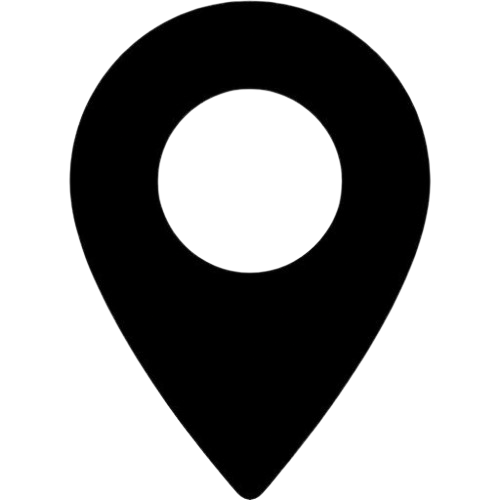
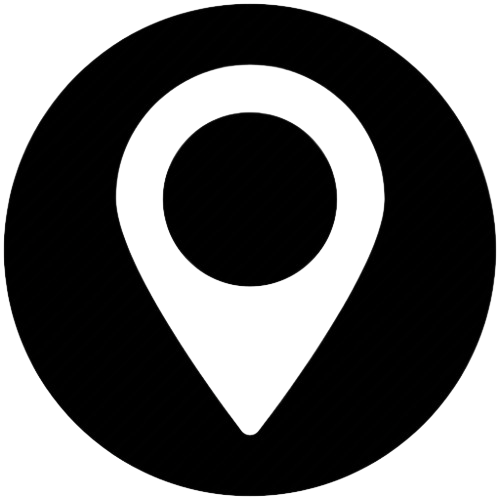
agregado el header y ahora se ve más linda la sección de contacto

diff --git a/src/app/page.tsx b/src/app/page.tsx
@@ -80,11 +80,18 @@ MoverImagenScroll();
     <div className="page-container">
       {/* Header */}
       <header className="header">
-        <h1>Header</h1>
+       <h1 className="text-2xl font-bold">
+          <a href="#">Fruterina</a>
+        </h1>
+        <nav className="space-x-4">
+          <a href="#start" className="hover:underline">Inicio</a>
+          <a href="#services" className="hover:underline">Servicios</a>
+          <a href="#contact" className="hover:underline">Contacto</a>
+        </nav>
       </header>
 
       {/* Contenido principal */}
-      <main className="main-content">
+      <main className="main-content" id="start">
         {/* Banner */}
         <section className="banner">
            <img
@@ -99,7 +106,7 @@ MoverImagenScroll();
         </section>
 
         {/* Sección de Tarjetas */}
-        <section className="services">
+        <section className="services" id="services">
           
           <h2 className="section-title">Nuestros Servicios</h2>
           <div className="services-container">
@@ -158,7 +165,7 @@ MoverImagenScroll();
         </section>
         {/* Imagen Final */}
      
-        <section className="contact">
+        <section className="contact" id="contact">
           <div className="contact-overlay"></div>
           
           {/* <Image
@@ -172,10 +179,10 @@ MoverImagenScroll();
           <div className="final-text">
             <h2>¡Comunicate con nosotros!</h2>
             <ul className="final-text-social-media-links">
-              <li><a href="#"><img src="./whatsappIcon.png" className="social-media-icon" alt="Whatsapp" /></a></li>
-              <li><a href="#"><img src="./instagramIcon.png" className="social-media-icon"  alt="Instagram" /></a></li>
-              <li><a href="#"><img src="./facebookIcon.png" className="social-media-icon"  alt="Facebook" /></a></li>
-              <li><a href="#"><img src="./locationIcon.png" className="social-media-icon"  alt="Direccion" /></a></li>
+              <li><a href="#contact"><img src="./whatsappIcon.png" className="social-media-icon" alt="Whatsapp" /></a></li>
+              <li><a href="#contact"><img src="./instagramIcon.png" className="social-media-icon"  alt="Instagram" /></a></li>
+              <li><a href="#contact"><img src="./facebookIcon.png" className="social-media-icon"  alt="Facebook" /></a></li>
+              <li><a href="#contact"><img src="./locationIcon.png" className="social-media-icon"  alt="Direccion" /></a></li>
             </ul>
           </div>
           
@@ -183,13 +190,13 @@ MoverImagenScroll();
       </main>
 
       {/* Footer */}
-      <footer className="footer">
+      <footer className="footer" id="footer">
         <section className="footer-links-container">
           <div className="footer-social-media-liks"></div>
           <ul className="footer-links-list">
-            <li><a className="footer-link" href="#">Términos y condicones</a></li>
-            <li><a className="footer-link" href="#">Política de privacidad</a></li>
-            <li><a className="footer-link" href="#">Política de Devoluciones</a></li>
+            <li><a className="footer-link hover:underline" href="#footer">Términos y condicones</a></li>
+            <li><a className="footer-link hover:underline" href="#footer">Política de privacidad</a></li>
+            <li><a className="footer-link hover:underline" href="#footer">Política de Devoluciones</a></li>
           </ul>
         </section>
         <p>&copy; 2025 - Luca Stombellini & Marcos Constantino</p>

diff --git a/src/app/globals.css b/src/app/globals.css
@@ -26,7 +26,7 @@ body {
   font-weight: 1000;
   font-style: italic;
   font-size: 1.3rem;
-
+  user-select: none;
 }
 
 .header {
@@ -34,6 +34,20 @@ body {
   color: white;
   padding: 16px;
   text-align: center;
+  display: flex;
+  flex-direction: row;
+  gap: 20px;
+  flex-wrap: wrap;
+}
+
+.header h1{
+  transition: all 0.5s;
+}
+
+.header h1:hover{
+    transform: scale(1.1);
+    color: #000000;
+    cursor: default;
 }
 
 .footer {
@@ -320,7 +334,12 @@ body {
 
 /* Imagen Final Seccion 4*/
 .contact {
-  /* background-color: rgb(135, 177, 229);*/
+   background-image: url('../../public/finalImage.jpeg');
+   background-size: cover;
+   background-attachment: fixed;
+   background-repeat: no-repeat;
+     /*background: linear-gradient(to bottom, #b04040, transparent);*/
+  height: 100%;
   position: relative;
   width: 100%;
   height: 200px;
@@ -330,6 +349,7 @@ body {
   align-content: center;
   justify-content: flex-start;
   align-items: center;
+
 }
 
 .social-media-icon{
@@ -342,6 +362,7 @@ body {
 }
 
 .contact-overlay {
+  display: none;
   position: absolute;
   top: 0;
   width: 100%;
@@ -493,6 +514,11 @@ body {
 
   .contact{
     height: 400px;
+    background: transparent;
+  }
+
+  .contact-overlay{
+    display: inline;
   }
 
   .final-text{
@@ -503,7 +529,7 @@ body {
     flex-direction: column;
     align-items: center;
     width: 25vw;
-    font-size: 1.3rem;
+    font-size: 1.8rem;
   }
   
 
@@ -512,7 +538,7 @@ body {
     display: flex;
     flex-wrap: nowrap;
     gap: 10px;
-    flex-direction: column;
+    flex-direction: row;
     align-items: center;
     height: 100%;
 
